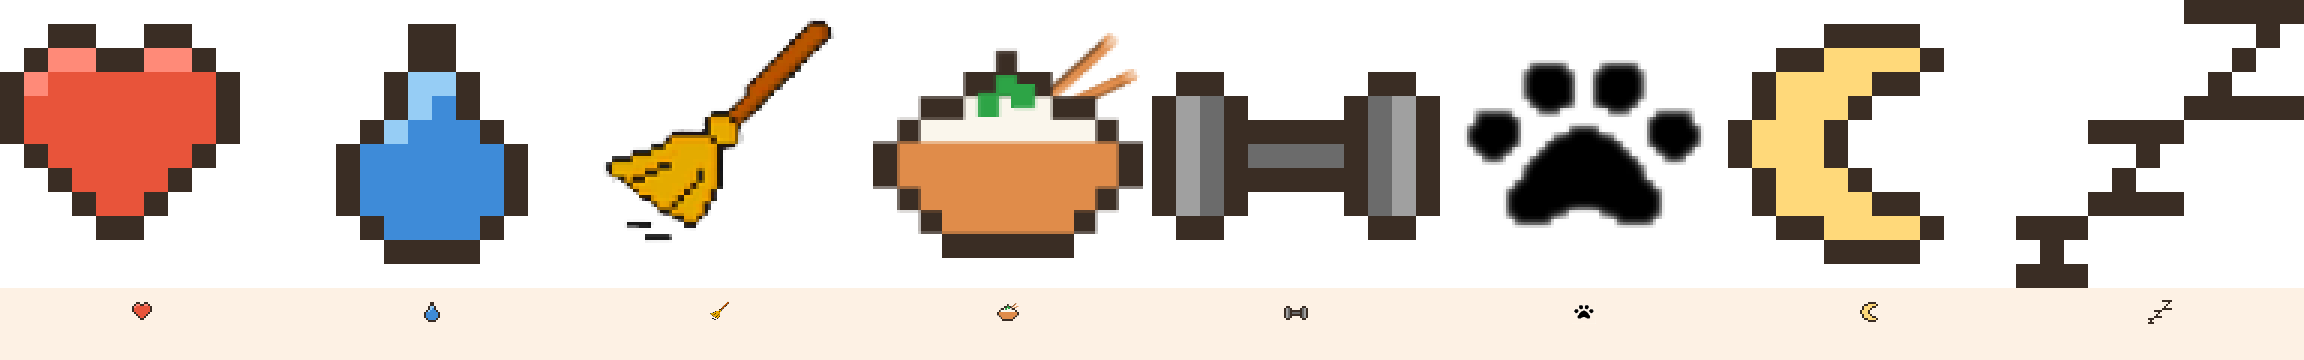
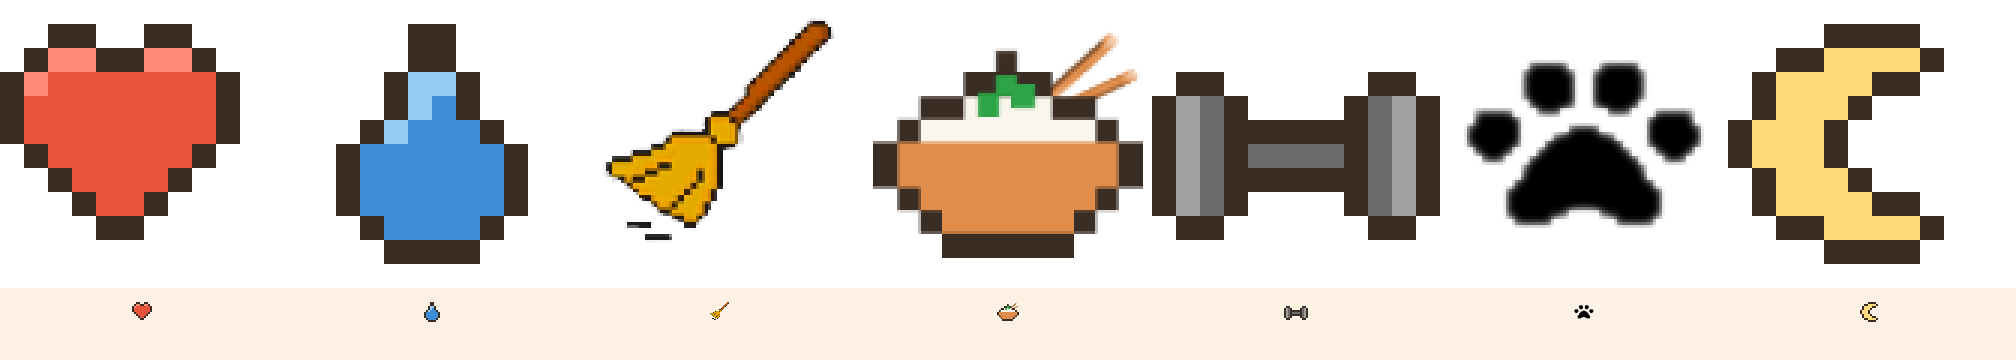
Dormir y apuntar el sueno son un boton, y la version se ve en Ajustes
DORMIR + SUENO = UN SOLO ICONO

Eran dos en el anillo: tres z para ponerlo a dormir y una luna para
apuntar las horas. Se separaron porque por dentro son un cuidado y un
dato — razon del codigo, no de quien usa la app. Para el usuario es un
solo momento: se va a dormir.

El comportamiento lo describio Alberto y es el que se implementa:
aceptar duerme al michi Y abre el editor; cancelar deja al michi
dormido igual; despierta con cualquier boton, que ya era asi.

Lo que hace que el gesto sea uno es lo de cancelar. No pulsaste
"apuntar", pulsaste "se va a dormir": eso ya ha ocurrido, y el editor
es una oferta, no un peaje. El mismo boton sirve a quien solo apaga el
gato por la noche y a quien viene a apuntar las horas.

Se queda la LUNA. El michi dormido YA lleva las tres z dibujadas
encima, asi que como icono repetian lo que la pantalla iba a enseniar
un segundo despues; la luna dice "noche" y deja que la respuesta la de
el gato. Y a 12 px una silueta maciza se lee y tres trazos finos no,
que es por lo que las z eran la unica excepcion a la regla de contorno
mas relleno del resto de iconos.

El anillo pasa de ocho iconos a siete. El dibujo de las z se retira
como la equis de salir: rejilla, PNG y rotulo en las cinco lenguas.
Los siete que quedan se regeneran byte a byte identicos, asi que la
cache NO hacia falta subirla.

LA VERSION, EN AJUSTES

Ultima linea de la pantalla. El numero no esta escrito en el codigo:
[…]

diff --git a/src/mascota/anillos.js b/src/mascota/anillos.js
@@ -58,9 +58,19 @@ export const ESPERA_MS = 8000;
    (`MECANICA.md` 8b). Ponerlos detrás de cuatro pulsaciones los
    escondía.
 
-   `dormir` cierra la vuelta. Estaba en el botón derecho hasta hoy, y al
-   pasar ése a cerrar se quedó sin sitio; aquí dentro es un cuidado más,
-   que es lo que siempre fue.
+   `sueno` cierra la vuelta, y **es un icono solo desde el 2026-09-14**.
+   Hasta entonces eran dos: `dormir` (tres z, ponerlo a dormir) y
+   `sueno` (una luna, apuntar las horas). Eran dos porque por dentro son
+   cosas distintas —una es un cuidado y la otra un dato—, y esa es razón
+   del código, no de quien usa la app. Para el usuario es UN gesto: «se
+   va a dormir». Ahora el gesto es uno y hace las dos cosas — duerme al
+   michi Y abre el editor — con el detalle de que si CANCELAS el editor
+   el michi se queda dormido igual. Ver `DECISIONS.md`.
+
+   Se quedó la LUNA. Las tres z ya están dibujadas encima del michi
+   dormido, así que como icono repetían lo que la pantalla iba a
+   enseñar; la luna dice «noche» y deja que la respuesta la dé el gato.
+   Y a 12 px una silueta maciza se lee y tres trazos finos no.
 
    NADA de `cuidado: true` toca la mecánica — ni experiencia, ni nivel,
    ni cumplimiento del pacto. Eso lo vigila `pruebas/cuidados.mjs`, y el
@@ -75,11 +85,12 @@ export const ANILLO = [
   { id: 'mimar',   clave: 'anillo.mimar',   cuidado: true },
   { id: 'agua',    clave: 'anillo.agua',    cuidado: true },
   { id: 'limpiar', clave: 'anillo.limpiar', cuidado: true },
-  { id: 'dormir',  clave: 'aparato.dormir', cuidado: true },
   { id: 'pasos',   clave: 'anillo.pasos',   escena: 'pasear',   campo: 'pasos' },
   { id: 'entreno', clave: 'anillo.entreno', escena: 'entrenar', campo: 'entreno' },
   { id: 'comida',  clave: 'anillo.comida',  escena: 'comer',    campo: 'comida' },
-  { id: 'sueno',   clave: 'anillo.sueno',   escena: 'dormir',   campo: 'sueno' },
+  /* El único que duerme al michi Y abre el editor. `duerme: true` es lo
+     que lo separa de los otros tres datos, y lo mira `Inicio.jsx`. */
+  { id: 'sueno',   clave: 'anillo.sueno',   escena: 'dormir',   campo: 'sueno', duerme: true },
 ];
 
 /* La ruta del icono sale del id: los PNG se llaman igual. Un icono

diff --git a/src/pantallas/Inicio.jsx b/src/pantallas/Inicio.jsx
@@ -115,23 +115,33 @@ export default function Inicio({ estado, entradas, pacto, onCarino, onCuidar, on
 
     if (item.cuidado) {
       /* Cuidar despierta al michi: darle agua a una pantalla apagada no
-         se entiende. `dormir` es la excepción evidente — ése la apaga. */
-      if (item.id !== 'dormir') setEscenaId((e) => (e === 'dormir' ? null : e));
+         se entiende. */
+      setEscenaId((e) => (e === 'dormir' ? null : e));
 
       if (item.id === 'mimar') { onCarino?.(); setGesto('mimar');
         setTimeout(() => setGesto((g) => (g === 'mimar' ? null : g)), 2600); }
       if (item.id === 'agua') onCuidar?.('agua');
       if (item.id === 'limpiar') onCuidar?.('orden');
-      if (item.id === 'dormir') {
-        /* Alterna: el mismo icono lo duerme y lo despierta. Era el botón
-           derecho hasta el 2026-09-12. */
-        const durmiendo = escenaId === 'dormir';
-        setEscenaId(durmiendo ? null : 'dormir');
-        sonidos.dormir(!durmiendo);
-        aNeutral();
-        return;
-      }
       sonidos.mimar?.();
+    } else if (item.duerme) {
+      /* SUEÑO · el michi se duerme Y se abre el editor, en ese orden.
+         Un solo icono desde el 2026-09-14; antes eran dos y había que
+         saber cuál era cuál.
+
+         Lo importante es lo que pasa DESPUÉS, y es lo que hace que el
+         gesto sea uno: apuntes las horas o CANCELES, el michi se queda
+         dormido. Cancelar no es deshacer — tú no pulsaste «apuntar»,
+         pulsaste «se va a dormir», y eso ya ha ocurrido. Así que quien
+         solo quiera apagarlo por la noche pulsa y cierra, y quien venga
+         a apuntar lo que durmió lo apunta. El mismo botón sirve a los
+         dos sin preguntar cuál eres.
+
+         Se despierta como se despertaba antes: pulsando cualquier
+         botón, que es lo que hace el `if (dormidoDeVerdad)` de
+         `pulsar`. No hace falta nada aquí para eso. */
+      setEscenaId('dormir');
+      sonidos.dormir(true);
+      onMedir?.(item.campo);
     } else {
       onMedir?.(item.campo);
     }

diff --git a/src/estilos.css b/src/estilos.css
@@ -113,6 +113,14 @@ body {
 .mf-sub { font-size: calc(12px * var(--escala)); color: var(--tinta-flojo); font-weight: 700; margin: 0 0 14px; }
 .mf-nota { font-size: calc(11.5px * var(--escala)); color: var(--tinta-flojo); font-weight: 600; line-height: 1.5; margin: 10px 0 0; }
 .mf-pie { font-size: calc(11px * var(--escala)); color: var(--tinta-flojo); font-weight: 600; line-height: 1.5; text-align: center; margin: 18px 0; }
+/* La version, al final de Ajustes. Discreta, pero NO desvaida: es un
+   dato que se viene a buscar a proposito, y en un movil. Se probo a
+   10 px con `opacity: .55` y daba 2,8:1 de contraste — por debajo del
+   4,5:1 que se considera legible, o sea justo lo contrario de lo que
+   hace falta. Sin opacidad se queda en el tono flojo de la marca, que
+   ya esta medido.
+   `tabular-nums` para que los digitos no bailen al subir de version. */
+.mf-version { font-size: calc(11px * var(--escala)); color: var(--tinta-flojo); font-weight: 700; text-align: center; margin: 0 0 18px; font-variant-numeric: tabular-nums; }
 
 .mf-tarjeta {
   background: var(--papel); border-radius: 22px; padding: 16px 18px;

diff --git a/vite.config.js b/vite.config.js
@@ -1,7 +1,25 @@
+import { readFileSync } from 'node:fs'
+
 import react from '@vitejs/plugin-react'
 import { defineConfig } from 'vite'
+
+/* La version sale de `package.json` y entra en el codigo al compilar.
+
+   Escrita a mano en un archivo del codigo se queda vieja el dia que a
+   nadie se le ocurra cambiarla en los dos sitios, y entonces la app
+   MIENTE sobre que version es — que es exactamente el problema que se
+   vino a resolver el 2026-09-14. Asi solo hay un sitio donde tocarla.
+
+   `readFileSync` y no `import ... with { type: 'json' }` porque esto lo
+   lee Node al arrancar Vite, y el import de JSON con atributos aun
+   avisa por consola segun la version. Leer un archivo y parsearlo
+   funciona en todas y no hay que volver a mirarlo. */
+const { version } = JSON.parse(readFileSync('./package.json', 'utf8'))
 
 // https://vite.dev/config/
 export default defineConfig({
   plugins: [react()],
+  define: {
+    __VERSION__: JSON.stringify(version),
+  },
 })

diff --git a/src/pantallas/Ajustes.jsx b/src/pantallas/Ajustes.jsx
@@ -167,6 +167,18 @@ export default function Ajustes({ perfil, entradas, pacto, onCambiar, onReinicia
       <p className="mf-pie">
         {t('ajustes.pie')}
       </p>
+
+      {/* La VERSIÓN, y es lo último de la pantalla a propósito: no es
+          algo que nadie venga a buscar, pero cuando hace falta hace
+          mucha falta. Alberto abre la app desde tres sitios —este
+          portátil, otro y el móvil— y hasta hoy no había forma de
+          saber, mirando el móvil, si lo que tenías delante era lo
+          último que subiste o una copia guardada de hace tres días.
+
+          El número entra al compilar desde `package.json` (ver
+          `vite.config.js`), así que no se puede quedar desfasado.
+          Sin traducir: `v0.7.0` se lee igual en las cinco lenguas. */}
+      <p className="mf-version">v{__VERSION__}</p>
     </div>
   );
 }

diff --git a/src/i18n/th.js b/src/i18n/th.js
@@ -289,7 +289,7 @@ export default {
     comida: 'อาหาร',
     entreno: 'ออกกำลังกาย',
     pasos: 'ก้าว',
-    sueno: 'บันทึกการนอน',
+    sueno: 'นอนและบันทึก',
     ayuda: 'ซ้าย: ถัดไป · กลาง: ตกลง · ขวา: ปิด',
   },
 
@@ -297,7 +297,6 @@ export default {
     titulo: 'มิจิของคุณ',
     mimar: 'ลูบ',
     escena: 'เปลี่ยนฉาก',
-    dormir: 'ทำให้นอน',
     comoVa: 'เป็นยังไงบ้าง',
     acabado: 'พื้นผิว',
     liso: 'เรียบ',

diff --git a/src/i18n/ja.js b/src/i18n/ja.js
@@ -289,7 +289,7 @@ export default {
     comida: 'しょくじ',
     entreno: 'うんどう',
     pasos: 'ほすう',
-    sueno: 'すいみんを記録',
+    sueno: '寝かせて記録',
     ayuda: '左：つぎへ · 中：けってい · 右：とじる',
   },
 
@@ -297,7 +297,6 @@ export default {
     titulo: 'あなたのミチ',
     mimar: 'なでる',
     escena: '場面を変える',
-    dormir: '寝かしつける',
     comoVa: '調子はどう',
     acabado: '質感',
     liso: 'なめらか',

diff --git a/src/i18n/es.js b/src/i18n/es.js
@@ -300,7 +300,7 @@ export default {
     comida: 'Comida',
     entreno: 'Entreno',
     pasos: 'Pasos',
-    sueno: 'Apuntar sueño',
+    sueno: 'Dormir y apuntar',
     ayuda: 'Izquierda: siguiente · Centro: aceptar · Derecha: cerrar',
   },
 
@@ -308,7 +308,6 @@ export default {
     titulo: 'Tu michi',
     mimar: 'Mimar',
     escena: 'Cambiar de escena',
-    dormir: 'Ponerlo a dormir',
     comoVa: 'Cómo va',
     acabado: 'Acabado',
     liso: 'Liso',

diff --git a/src/i18n/zh.js b/src/i18n/zh.js
@@ -288,7 +288,7 @@ export default {
     comida: '饮食',
     entreno: '运动',
     pasos: '步数',
-    sueno: '记录睡眠',
+    sueno: '睡觉并记录',
     ayuda: '左：下一个 · 中：确认 · 右：关闭',
   },
 
@@ -296,7 +296,6 @@ export default {
     titulo: '你的米奇',
     mimar: '摸摸它',
     escena: '换场景',
-    dormir: '让它睡觉',
     comoVa: '状态如何',
     acabado: '质感',
     liso: '平滑',

diff --git a/src/i18n/en.js b/src/i18n/en.js
@@ -294,7 +294,7 @@ export default {
     comida: 'Food',
     entreno: 'Workout',
     pasos: 'Steps',
-    sueno: 'Log sleep',
+    sueno: 'Sleep & log',
     ayuda: 'Left: next · Middle: accept · Right: close',
   },
 
@@ -302,7 +302,6 @@ export default {
     titulo: 'Your michi',
     mimar: 'Pet',
     escena: 'Change the scene',
-    dormir: 'Put to sleep',
     comoVa: 'How is it going',
     acabado: 'Finish',
     liso: 'Smooth',

diff --git a/pixel/iconos_anillo.py b/pixel/iconos_anillo.py
@@ -181,36 +181,6 @@ ICONOS = {
         "....####....",
         "............",
     ],
-    # MACIZA. La primera version era una equis hecha de contorno hueco:
-    # ampliada se entendia, y a 12 px era una mancha con agujeros.
-    # DORMIR: apagar la pantalla y que se eche a dormir. NO es lo mismo
-    # que "sueno", que es apuntar las horas que dormiste — ese es la
-    # luna. Idea de Alberto: tres Z de tamano creciente.
-    #
-    # Van en DIAGONAL y no en fila. En fila, tres Z de 3, 4 y 5 px de
-    # ancho suman 12 sin un solo hueco entre ellas y se leen como una
-    # reja. En diagonal se usa la caja entera, y ademas es como se ha
-    # dibujado siempre el sueno en una vineta: subiendo.
-    #
-    # Solidas en tinta, sin relleno de color, que es la excepcion a la
-    # regla del contorno: a 3 px de ancho no cabe contorno MAS relleno,
-    # y una letra oscura sobre el fondo claro del anillo ya tiene todo
-    # el contraste que necesita. Lo que la hace legible es la forma de
-    # la letra, no el color.
-    "dormir": [
-        ".......#####",
-        "..........#.",
-        ".........#..",
-        "........#...",
-        ".......#####",
-        "...####.....",
-        ".....#......",
-        "....#.......",
-        "...####.....",
-        "###.........",
-        ".#..........",
-        "###.........",
-    ],
 }
 
 

diff --git a/SESSION_MAP.md b/SESSION_MAP.md
@@ -1029,3 +1029,62 @@ el mismo hash (`index-SMTa-lIt.js`) que ya estaba en produccion.
   de aqui. Y la propuesta de enseniar la version DENTRO de la app, en
   Ajustes — se dejo sin hacer porque toca interfaz y los cinco idiomas, y
   eso se decide, no se cuela en una tanda de mantenimiento.
+
+## 2026-09-14 (tarde) — Un solo boton para dormir, y la version a la vista
+- Contexto: Alberto aprueba lo de enseniar la version en la app («lo
+  aplicare al resto de aplicaciones») y cierra la duda de dormir/sueno
+  describiendo el comportamiento que quiere.
+- Que se hizo:
+
+**La version, en Ajustes.** Ultima linea de la pantalla. El numero NO
+esta escrito en el codigo: entra al compilar desde `package.json` via
+`__VERSION__`, definido en `vite.config.js`. Escrito a mano se queda
+viejo el dia que nadie lo cambie en los dos sitios, y entonces la app
+mentiria sobre que version es — que es justo el problema que se venia a
+resolver esta manana.
+
+Un detalle que salio de mirarlo: se puso primero a 10 px con
+`opacity: .55`, y eso da menos de 3:1 de contraste. Para un dato que se
+viene a buscar a proposito, y en un movil, es al reves de lo que hace
+falta. Ahora usa el mismo tratamiento que `.mf-pie`, que es la
+convencion del proyecto.
+
+Queda dicho, y no se toca aqui: **toda la familia `--tinta-flojo` anda
+por 3:1** —notas, pies, todo—, por debajo del 4,5:1 que se considera
+legible. Eso es una decision de diseno de toda la app, no un arreglo
+que se cuela en un commit de otra cosa.
+
+**Dormir y apuntar el sueno pasan a ser UN boton.** Eran dos iconos
+—tres z y luna— separados porque por dentro son un cuidado y un dato.
+Razon del codigo, no del usuario. El comportamiento lo describio
+Alberto y es el que se implemento: aceptar duerme al michi Y abre el
+editor; **cancelar deja al michi dormido igual**; despierta con
+cualquier boton, que ya funcionaba asi.
+
+Lo que hace que el gesto sea uno es lo de cancelar. No pulsaste
+«apuntar», pulsaste «se va a dormir»: eso ya ha ocurrido, y el editor
+es una oferta, no un peaje. Asi el mismo boton sirve a quien solo
+apaga el gato por la noche y a quien viene a apuntar las horas, sin
+preguntarle cual es.
+
+Se quedo la **luna**, y la razon buena no es de gusto: **el michi
+dormido ya lleva las tres z dibujadas encima**. Como icono del anillo
+repetian lo que la pantalla iba a enseniar un segundo despues. La luna
+dice «noche» y deja que la respuesta la de el gato. La segunda razon es
+de dibujo: a 12 px una silueta maciza se lee y tres trazos finos de
+tinta no, y por eso las z eran la unica excepcion a la regla de contorno
+mas relleno del resto de iconos.
+
+El anillo pasa de ocho iconos a **siete**. El dibujo de las z se retira
+igual que la equis de `salir` el 13: rejilla de `iconos_anillo.py`, PNG
+y rotulo en las cinco lenguas. Espera en el historial de git. Se
+comprobo que los siete que quedan se regeneran **byte a byte
+identicos**, asi que la cache NO hacia falta subirla.
+
+Probado entero en el navegador a 375x812: el anillo con la luna y el
+rotulo «DORMIR Y APUNTAR», aceptar → gato dormido y editor abierto,
+cancelar → sigue dormido, pulsar → despierta.
+
+- Que quedo pendiente: la conversacion de simplificar, el QR de
+  PromptPay, y mas fotos de Ninja. El contraste de `--tinta-flojo`,
+  anotado arriba, si alguna vez se quiere abrir.
